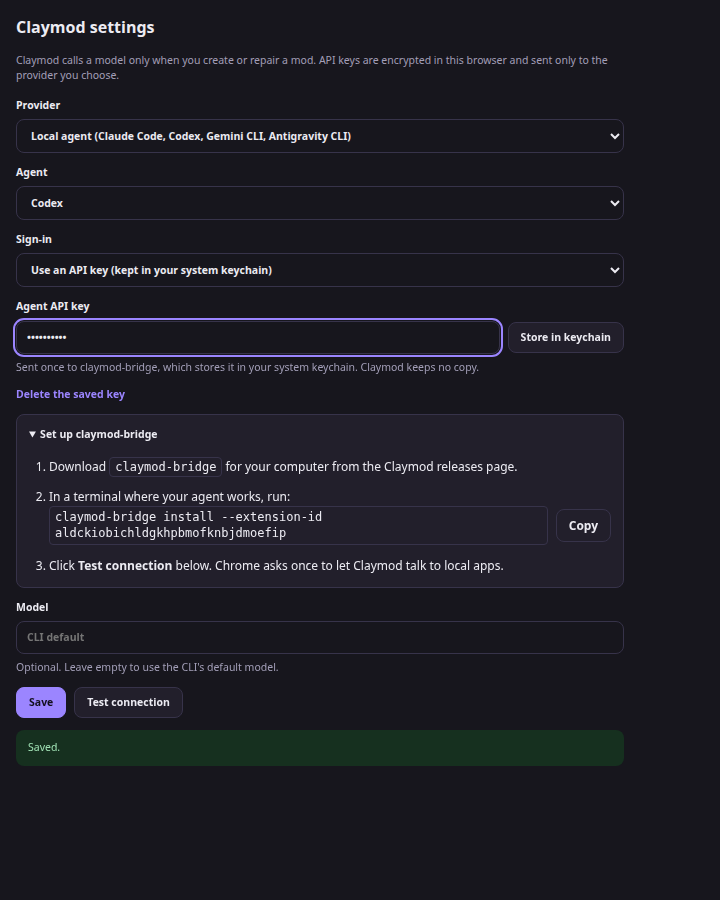
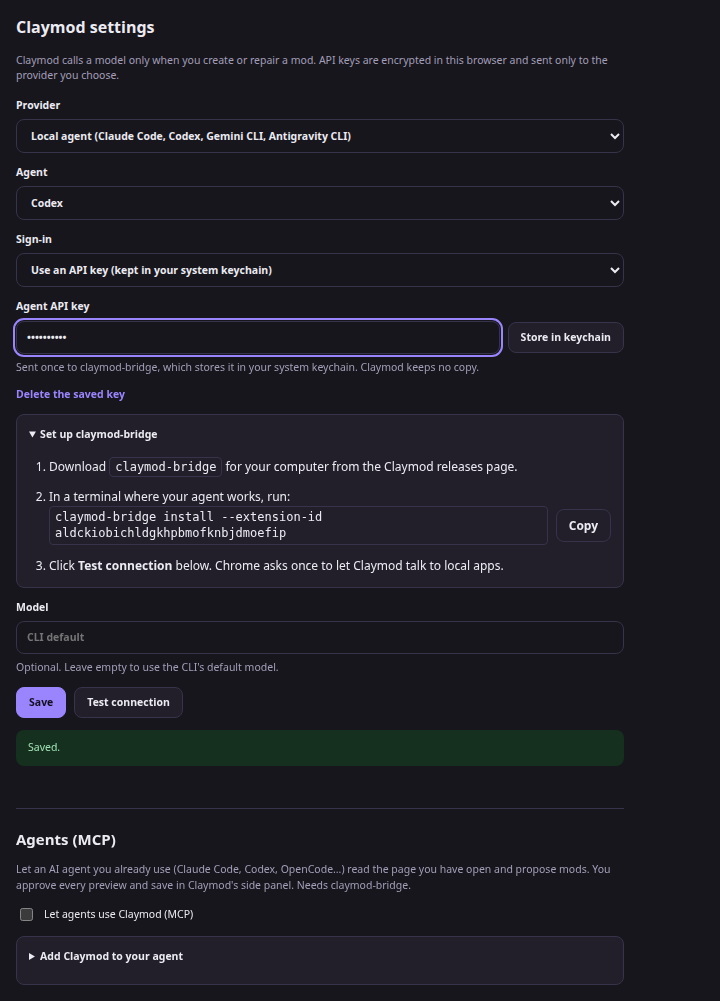
docs: add M5 agent (MCP) screenshots

diff --git a/docs/screenshots/README.md b/docs/screenshots/README.md
@@ -27,6 +27,16 @@ Captured with the real `claymod-bridge` and a fake agent CLI.
 | Preview made by a local agent | ![](light-m4-4-panel-preview-local-agent.png) | ![](dark-m4-4-panel-preview-local-agent.png) |
 | Bridge not installed | ![](light-m4-5-bridge-missing.png) | ![](dark-m4-5-bridge-missing.png) |
 
+## Agents over MCP (M5)
+
+Captured with a real MCP client, `claymod-bridge mcp` and the real bridge.
+
+| | Light | Dark |
+| --- | --- | --- |
+| Settings: agents switched on | ![](light-m5-1-settings-agents.png) | ![](dark-m5-1-settings-agents.png) |
+| An agent asks to save a mod | ![](light-m5-2-panel-agent-request.png) | ![](dark-m5-2-panel-agent-request.png) |
+| Previewing the agent's mod | ![](light-m5-3-panel-agent-preview.png) | ![](dark-m5-3-panel-agent-preview.png) |
+
 ## Mod manager (M3)
 
 | | Light | Dark |
